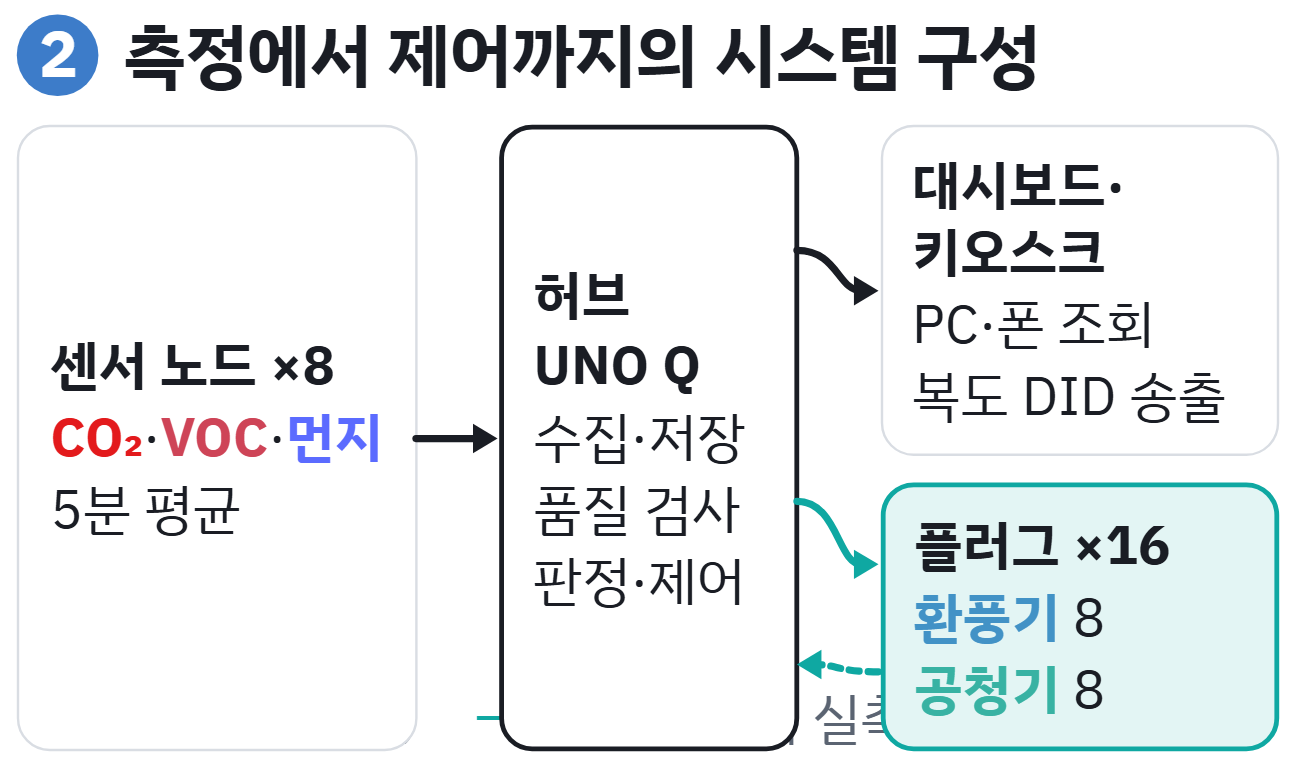
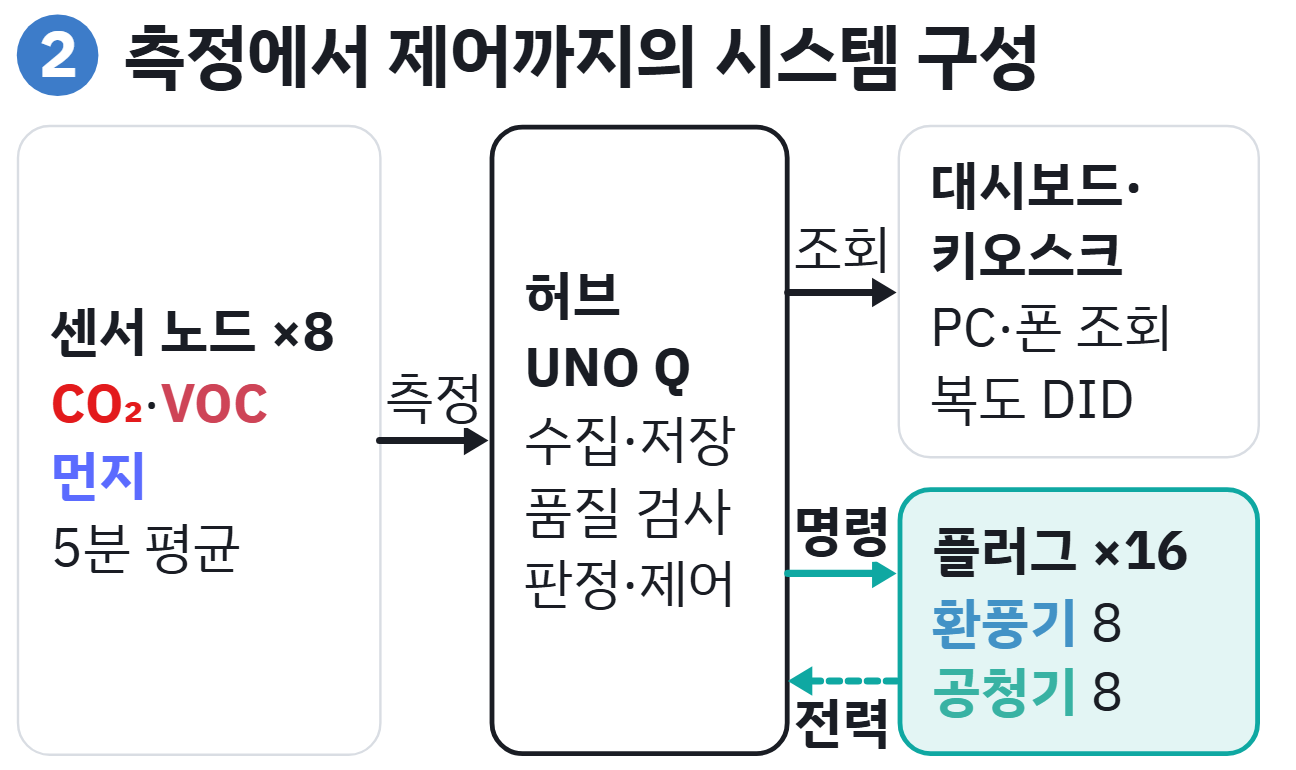
docs(steam): 포스터 시스템 구성도 — 수평 화살표만, 범례 잘림 제거; 보고서 v3.3 유지·보수 절 절충안

diff --git a/docs/steam_report/v2/figs/p_system.html b/docs/steam_report/v2/figs/p_system.html
@@ -1,40 +1,36 @@
 <!doctype html><html lang="ko" data-kind="p" data-w="143" data-h="85"><head><meta charset="utf-8"><link rel="stylesheet" href="../design/base.css"><style>
 html,body{height:100%} body{word-break:keep-all}
-.fill{display:flex;flex-direction:column;gap:1.6mm}
-.dg{position:relative;flex:1;min-height:0;display:grid;grid-template-columns:44mm 9mm 33mm 9mm 44mm;grid-template-rows:1fr 1.3fr;gap:3mm 0}
+.fill{position:relative;display:grid;grid-template-columns:40mm 12mm 33mm 12mm 40mm;grid-template-rows:1fr 1fr;gap:3mm 0}
 .box{display:flex;flex-direction:column;justify-content:center;gap:.4mm;line-height:1.25}
 .box .h{font-weight:700}
 #sen{grid-column:1;grid-row:1/3} #hub{grid-column:3;grid-row:1/3} #dash{grid-column:5;grid-row:1} #plug{grid-column:5;grid-row:2}
 #hub{border-color:var(--ink);border-width:.7mm}
 #plug{border-color:var(--rg-clean);border-width:.7mm;background:var(--rg-clean-bg)}
 .co2{color:var(--co2-deep);font-weight:700} .voc{color:var(--voc);font-weight:700} .pm{color:var(--pm);font-weight:700} .fan{color:var(--fan);font-weight:700} .pur{color:var(--purifier);font-weight:700}
-.lg{display:flex;gap:6mm;color:var(--dim);flex:none} .lg b{color:var(--ink)} .lg .m{color:var(--rg-clean)}
 #ov{position:absolute;inset:0;width:100%;height:100%;overflow:visible;pointer-events:none}
 </style></head><body><div class="fig">
 <div class="t"><span class="idx">2</span>측정에서 제어까지의 시스템 구성</div>
 <div class="fill">
- <div class="dg">
-  <div class="panel box" id="sen" data-fit="sen"><div class="h">센서 노드 ×8</div><div><span class="co2">CO₂</span>·<span class="voc">VOC</span>·<span class="pm">먼지</span></div><div>5분 평균</div></div>
+  <div class="panel box" id="sen" data-fit="sen"><div class="h">센서 노드 ×8</div><div><span class="co2">CO₂</span>·<span class="voc">VOC</span></div><div><span class="pm">먼지</span></div><div>5분 평균</div></div>
   <div class="panel box" id="hub" data-fit="hub"><div class="h">허브</div><div class="h">UNO Q</div><div>수집·저장</div><div>품질 검사</div><div>판정·제어</div></div>
+  <div class="panel box" id="dash" data-fit="dash"><div class="h">대시보드·</div><div class="h">키오스크</div><div>PC·폰 조회</div><div>복도 DID</div></div>
   <div class="panel box" id="plug" data-fit="plug"><div class="h">플러그 ×16</div><div><span class="fan">환풍기</span> 8</div><div><span class="pur">공청기</span> 8</div></div>
-  <div class="panel box" id="dash" data-fit="dash"><div class="h">대시보드·키오스크</div><div>PC·폰 조회</div><div>복도 DID 송출</div></div>
   <svg id="ov"></svg>
- </div>
- <div class="lg"><span><b>→</b> 데이터 (MQTT)</span><span><span class="m">→</span> 명령 <span class="m">⇠</span> 전력 실측</span></div>
 </div></div>
 <script>
 const svg=document.getElementById('ov'),NS='http://www.w3.org/2000/svg';
 const U=parseFloat(getComputedStyle(document.documentElement).getPropertyValue('--u'))||1;
 const C=n=>getComputedStyle(document.documentElement).getPropertyValue(n).trim();
-const pt=(id,s,f=.5)=>{const r=document.getElementById(id).getBoundingClientRect(),b=svg.getBoundingClientRect();const x=r.left-b.left,y=r.top-b.top,w=r.width,h=r.height;return s==='r'?[x+w,y+h*f]:s==='l'?[x,y+h*f]:s==='t'?[x+w*f,y]:[x+w*f,y+h];};
-function arrow(a,b,c,o={}){const hl=6.2*U,w=1.8*U;let d,ang;
- if(o.curve){const mx=(a[0]+b[0])/2;ang=b[0]>a[0]?0:Math.PI;const ex=b[0]-Math.cos(ang)*hl*.7;d=`M${a[0]} ${a[1]} C${mx} ${a[1]} ${mx} ${b[1]} ${ex} ${b[1]}`;}
- else{ang=Math.atan2(b[1]-a[1],b[0]-a[0]);d=`M${a[0]} ${a[1]} L${b[0]-Math.cos(ang)*hl*.7} ${b[1]-Math.sin(ang)*hl*.7}`;}
- const cs=Math.cos(ang),s=Math.sin(ang);const p=document.createElementNS(NS,'path');p.setAttribute('d',d);p.setAttribute('stroke',c);p.setAttribute('stroke-width',w);p.setAttribute('fill','none');p.setAttribute('stroke-linecap','round');if(o.dash)p.setAttribute('stroke-dasharray',`${2.6*U} ${2.2*U}`);svg.appendChild(p);
- const h=document.createElementNS(NS,'path');h.setAttribute('d',`M${b[0]} ${b[1]} L${b[0]-cs*hl-s*hl*.6} ${b[1]-s*hl+cs*hl*.6} L${b[0]-cs*hl+s*hl*.6} ${b[1]-s*hl-cs*hl*.6} Z`);h.setAttribute('fill',c);svg.appendChild(h);}
-function draw(){svg.innerHTML='';const ink=C('--ink'),mint=C('--rg-clean');
- arrow(pt('sen','r'),pt('hub','l',.5),ink,{curve:1});
- arrow(pt('hub','r',.2),pt('dash','l',.5),ink,{curve:1});
- arrow(pt('hub','r',.6),pt('plug','l',.3),mint,{curve:1});arrow(pt('plug','l',.7),pt('hub','r',.86),mint,{curve:1,dash:1});}
+const FS=parseFloat(getComputedStyle(document.body).fontSize);
+const rect=id=>{const r=document.getElementById(id).getBoundingClientRect(),b=svg.getBoundingClientRect();return {x:r.left-b.left,y:r.top-b.top,w:r.width,h:r.height};};
+function harrow(x0,x1,y,c,o={}){const hl=6.2*U,w=1.8*U,dir=x1>x0?1:-1;const p=document.createElementNS(NS,'path');
+ p.setAttribute('d',`M${x0} ${y} L${x1-dir*hl*.7} ${y}`);p.setAttribute('stroke',c);p.setAttribute('stroke-width',w);p.setAttribute('fill','none');p.setAttribute('stroke-linecap','round');if(o.dash)p.setAttribute('stroke-dasharray',`${2.6*U} ${2.2*U}`);svg.appendChild(p);
+ const h=document.createElementNS(NS,'path');h.setAttribute('d',`M${x1} ${y} L${x1-dir*hl} ${y-hl*.6} L${x1-dir*hl} ${y+hl*.6} Z`);h.setAttribute('fill',c);svg.appendChild(h);
+ if(o.label){const t=document.createElementNS(NS,'text');t.setAttribute('x',(x0+x1)/2);t.setAttribute('y',y+(o.below?FS*1.1:-FS*0.45));t.setAttribute('text-anchor','middle');t.setAttribute('fill',c);if(o.bold)t.setAttribute('font-weight','700');t.setAttribute('stroke','#fff');t.setAttribute('stroke-width',1.0*U*2);t.setAttribute('paint-order','stroke');t.setAttribute('stroke-linejoin','round');t.textContent=o.label;svg.appendChild(t);}}
+function draw(){svg.innerHTML='';const ink=C('--ink'),mint=C('--rg-clean');const s=rect('sen'),h=rect('hub'),d=rect('dash'),p=rect('plug');
+ harrow(s.x+s.w,h.x,h.y+h.h*0.5,ink,{label:'측정'});
+ harrow(h.x+h.w,d.x,d.y+d.h*0.5,ink,{label:'조회'});
+ harrow(h.x+h.w,p.x,p.y+p.h*0.32,mint,{label:'명령',bold:1});
+ harrow(p.x,h.x+h.w,p.y+p.h*0.72,mint,{dash:1,label:'전력',bold:1,below:1});}
 draw();document.fonts.ready.then(draw);
 </script></body></html>
